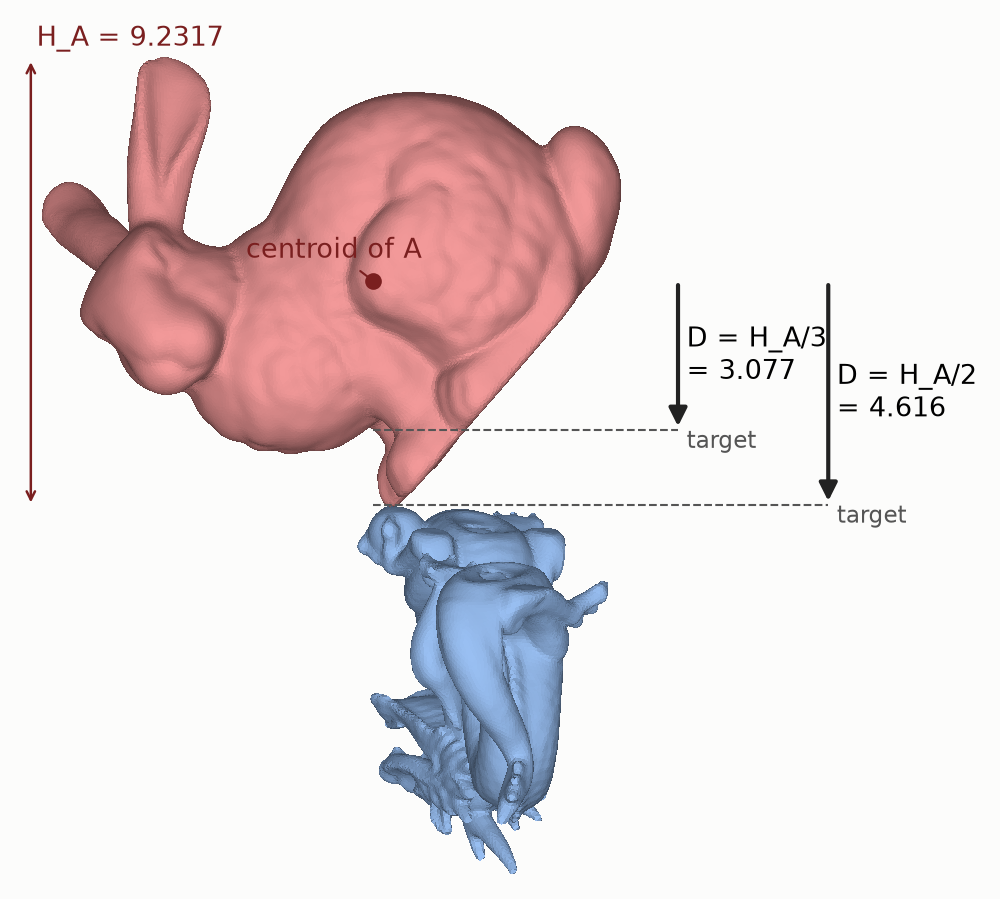
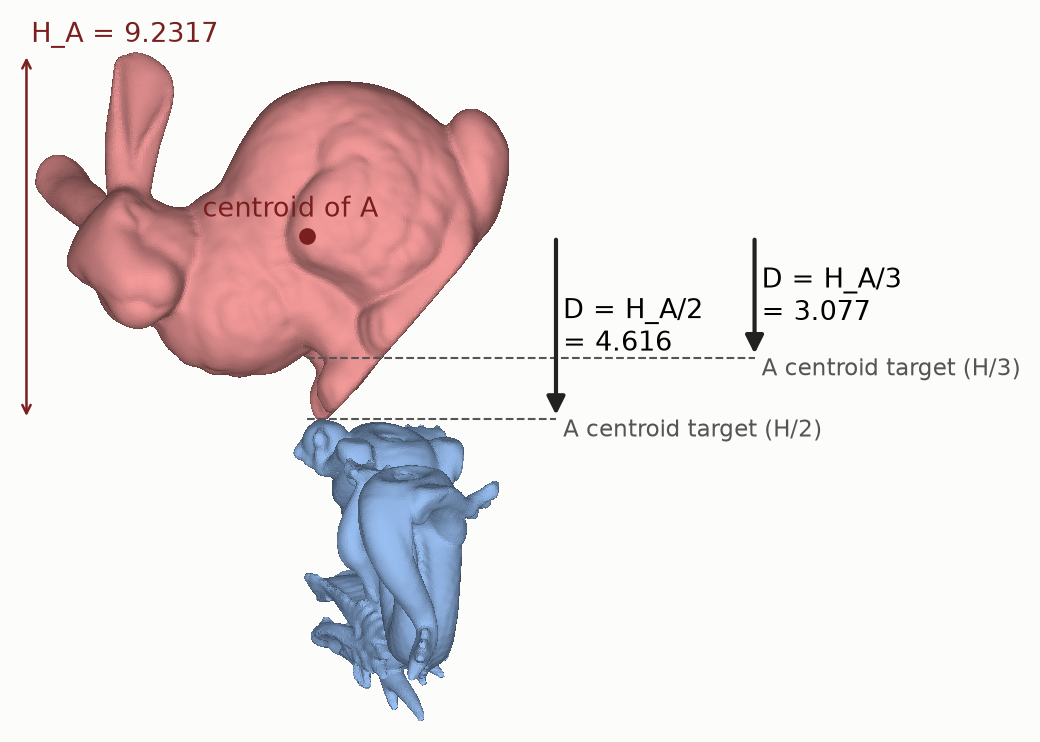
week7 setup figure: dashed lines labelled 'A centroid target (H/3)', '(H/2)' (from sandbox e81726bd, script 10211ab5); not pushed

Changed region(s): [[0.0, 0.031, 0.992, 0.9919], [0.837, 0.558, 0.899, 0.5889]]

diff --git a/week7.html b/week7.html
@@ -242,7 +242,7 @@ html.annot-on #annot-capture { display: block; }
   html.annot-fixed pre, html.annot-fixed mjx-container[display="true"] { overflow: visible; }
 }
 </style>
-<script>window.NIPC_PAGE = "4ada669b11ba";</script>
+<script>window.NIPC_PAGE = "839e6090eb5e";</script>
 <script>window.MathJax = {tex: {inlineMath: [["\\(", "\\)"]], displayMath: [["\\[", "\\]"]]}, svg: {fontCache: "global"}};</script>
 <script src="https://cdn.jsdelivr.net/npm/mathjax@3.2.2/es5/tex-svg.js" async></script>
 <a class="skip" href="#content">跳转到正文</a><div id="progress" aria-hidden="true"></div>
@@ -342,7 +342,7 @@ html.annot-on #annot-capture { display: block; }
 <li><strong>做法</strong>：兔子（A）和龙（B）都是有限元软体，普通网格。从刚好不碰的位置出发，把兔子质心朝龙推近 \(D\)，\(D\) 取兔高 \(H_A\) 的 <strong>1/2 和 1/3</strong>，分小步推，每一小步都解到静止再走下一步；最后一步的静止状态就是标签。</li>
 <li>推近之后，两个物体怎么变形、贴多大一片，全部由两体接触自己决定：没有任何改变形状的外力，不预先压扁任何一个物体。</li>
 </ul>
-<figure style="margin:12px 0"><img src="assets/images/w7_kkt_setup.png" width="1000" height="899" style="width:467px;max-width:100%;height:auto" alt="起点：兔子（红）刚好在龙（蓝）上方 0.0005 处、互不接触。箭头是兔子质心要推近的距离：\(D=H_A/3=3.077\)、\(D=H_A/2=4.616\)（兔高 \(H_A=9.2317\)）；虚线是推完后质心的目标高度。网格与接触位置无关、全身均匀：兔子 77 703 个顶点、347 833 个四面体，龙 49 735 个顶点、212 414 个四面体。" loading="lazy"><figcaption>起点：兔子（红）刚好在龙（蓝）上方 0.0005 处、互不接触。箭头是兔子质心要推近的距离：\(D=H_A/3=3.077\)、\(D=H_A/2=4.616\)（兔高 \(H_A=9.2317\)）；虚线是推完后质心的目标高度。网格与接触位置无关、全身均匀：兔子 77 703 个顶点、347 833 个四面体，龙 49 735 个顶点、212 414 个四面体。</figcaption></figure>
+<figure style="margin:12px 0"><img src="assets/images/w7_kkt_setup.png" width="1040" height="742" style="width:589px;max-width:100%;height:auto" alt="起点：兔子（红）刚好在龙（蓝）上方 0.0005 处、互不接触。箭头是兔子质心要推近的距离：\(D=H_A/3=3.077\)、\(D=H_A/2=4.616\)（兔高 \(H_A=9.2317\)）；虚线是推完后质心的目标高度。网格与接触位置无关、全身均匀：兔子 77 703 个顶点、347 833 个四面体，龙 49 735 个顶点、212 414 个四面体。" loading="lazy"><figcaption>起点：兔子（红）刚好在龙（蓝）上方 0.0005 处、互不接触。箭头是兔子质心要推近的距离：\(D=H_A/3=3.077\)、\(D=H_A/2=4.616\)（兔高 \(H_A=9.2317\)）；虚线是推完后质心的目标高度。网格与接触位置无关、全身均匀：兔子 77 703 个顶点、347 833 个四面体，龙 49 735 个顶点、212 414 个四面体。</figcaption></figure>
 <h3 id="w3-2">怎么「摆住」两个物体：跟导师一样的 rigid 锁</h3>
 
 <ul>
